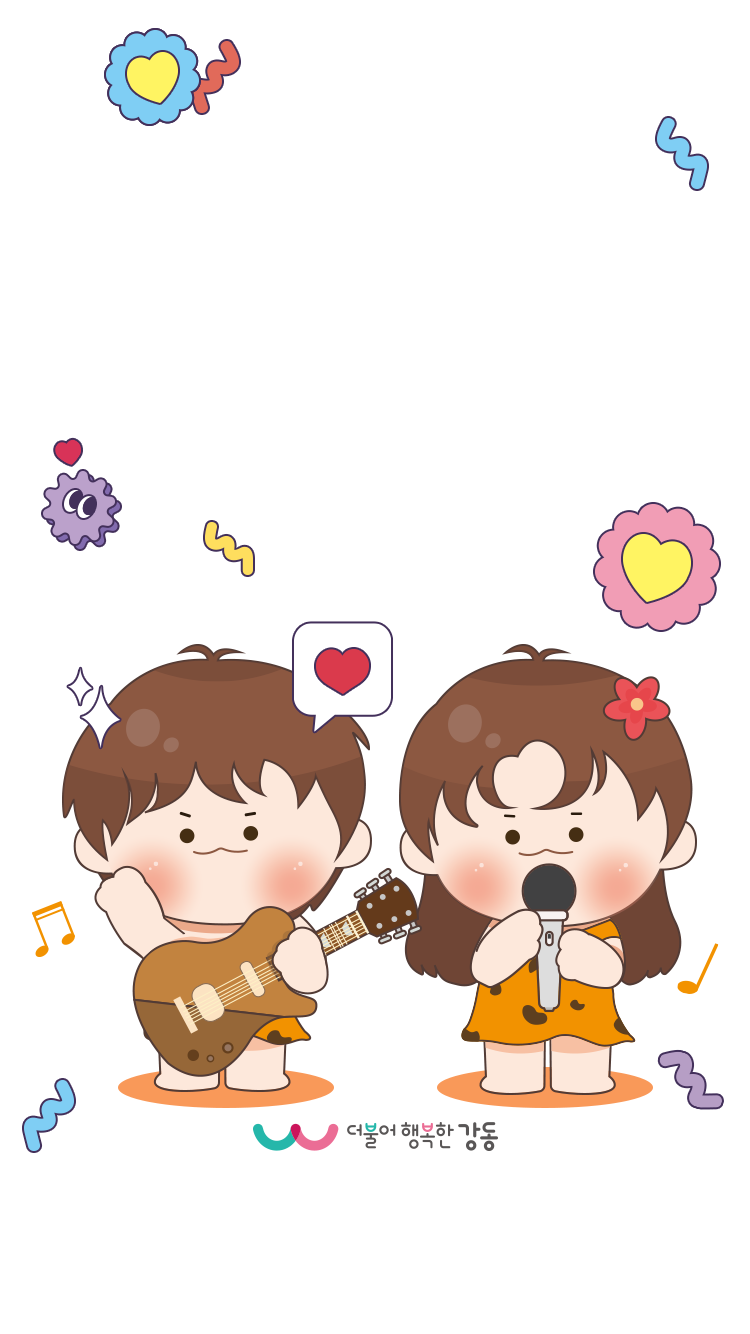
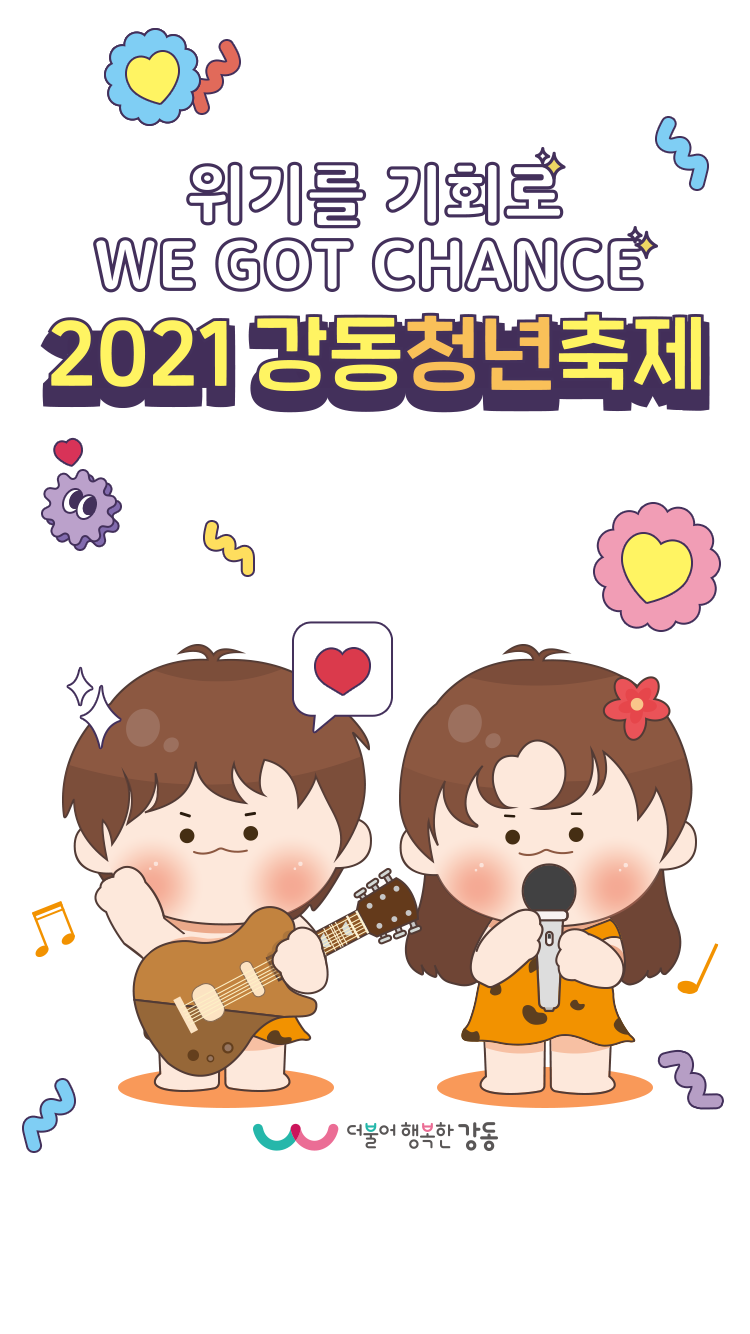
수정

Changed region(s): [[0.0613, 0.0922, 0.9507, 0.3073]]

diff --git a/css/style.css b/css/style.css
@@ -1,6 +1,6 @@
-.pg-coming-soon {overflow:hidden;width:100%;height:100%;background:url('../images/img_main_open.png') no-repeat 0 0;background-size:cover;}
-.pg-content {width:100%;height:100%;background:url('../images/img_main_char.png') no-repeat 0 0;background-size:cover;text-align:center;}
-.pg-title{display:inline-block;width:335px;height:133px;margin-top:73px;background:url('../images/img_main_open_title.png') no-repeat 0 0;background-size:335px 133px;color:transparent;text-indent:-99999em;}
-.pg-lower {position:absolute;left:0;right:0;bottom:0;height:60px;padding:10px 0;font-size:0;}
-.txt_noti {display:inline-block;width:244px;height:60px;margin-right:10px;background:url('../images/bt_get_ready.png') no-repeat 0 0;background-size:244px 60px;}
+.pg-coming-soon {position:relative;width:100%;height:100%;background:url('../images/img_main_open.png') no-repeat 0 0;background-size:cover;}
+.pg-content {text-align:center;}
+.pg-content img {display:inline-block;height:100vh;}
+.pg-lower {position:absolute;left:10px;right:10px;bottom:10px;height:60px;padding-top:10px;display:flex;justify-content:space-between;}
+.txt_noti {display:inline-block;width:244px;height:60px;background:url('../images/bt_get_ready.png') no-repeat 0 0;background-size:244px 60px;}
 .btn_lnk_insta {display:inline-block;width:100px;height:60px;background:url('../images/bt_go_insta.png') no-repeat 0 0;background-size:100px 60px;}

diff --git a/html/coming_soon.html b/html/coming_soon.html
@@ -9,13 +9,13 @@
 </head>
 <body>
 <div class="pg-coming-soon">
-    <section class="pg-content">
-        <h1 class="pg-title">위기를 기회로 WE GOT CHANCE 2021 강동청년축제</h1>
-        <div class="pg-lower">
-            <p class="txt_noti"><span class="blind">2021.10.30.(토)Open 곧 만날 수 있습니다!</span></p>
-            <a href="#" target="_blank" class="btn_lnk_insta"><span class="blind">강청인별 인스타</span></a>
-        </div>
-    </section>
+    <div class="pg-content">
+        <p><img src="../images/img_main_char.png" alt="위기를 기회로 WE GOT CHANCE 2021 강동청년축제"></p>
+    </div>
+    <div class="pg-lower">
+        <p class="txt_noti"><span class="blind">2021.10.30.(토)Open 곧 만날 수 있습니다!</span></p>
+        <a href="#" target="_blank" class="btn_lnk_insta"><span class="blind">강청인별 인스타</span></a>
+    </div>
 </div>
 </body>
 </html>
